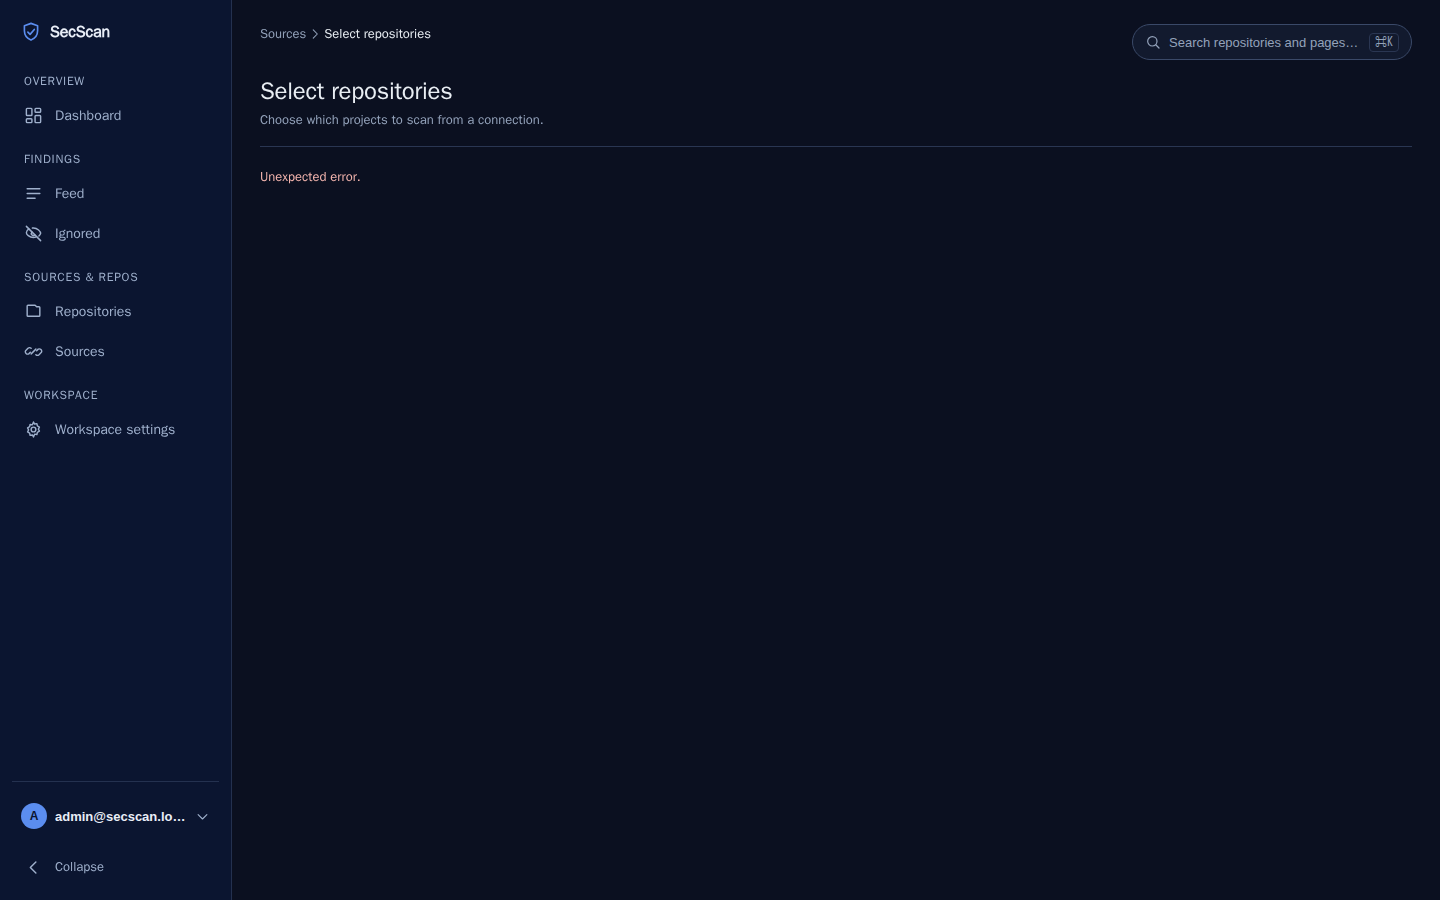
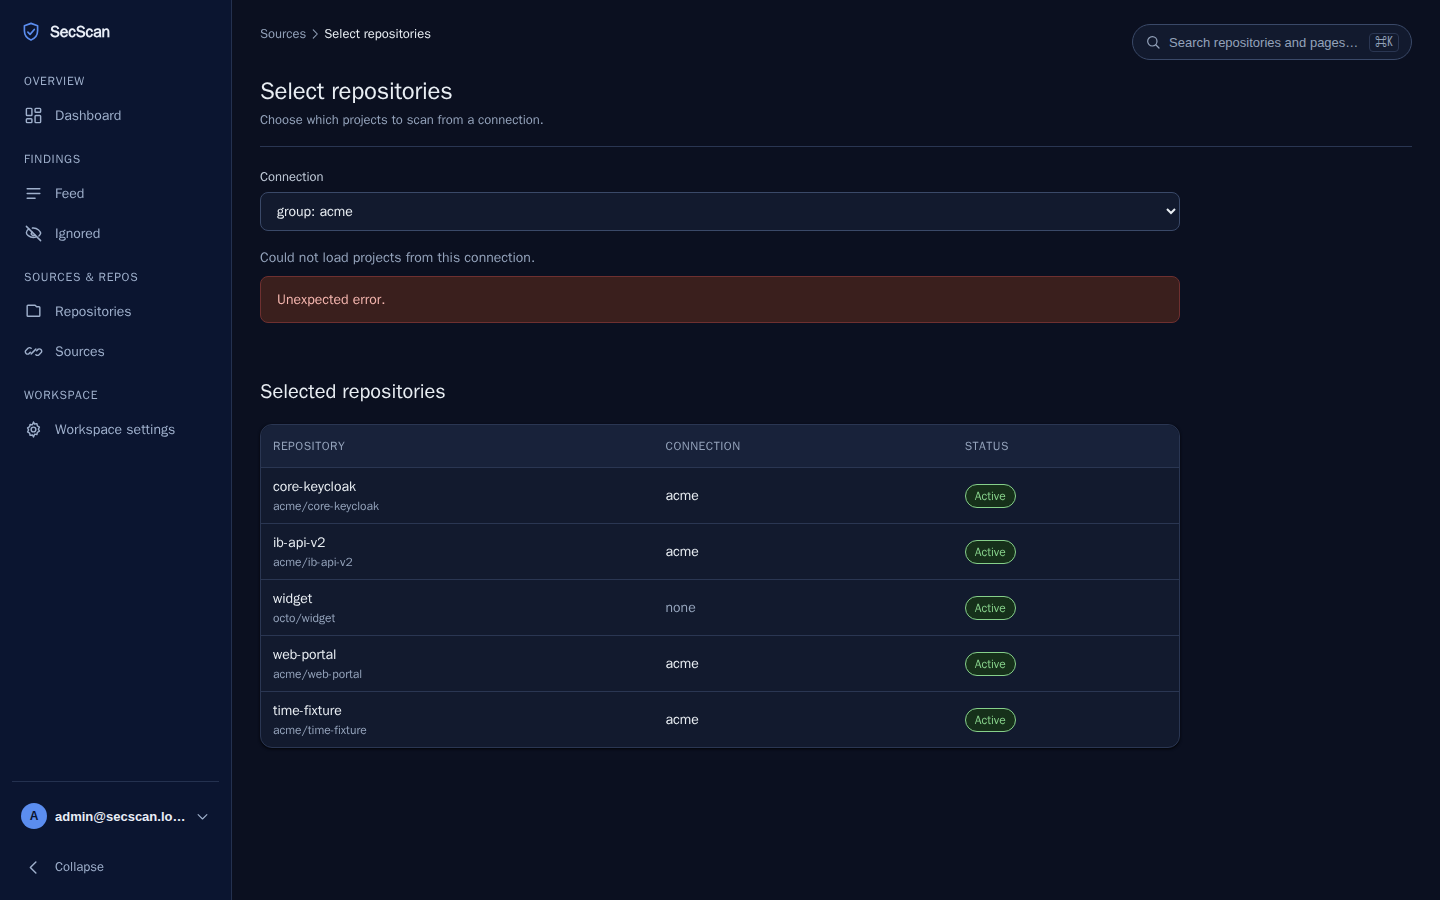
docs(ui): M8.11 R7 report rewrite + regenerated select screenshots (SF-6)
Add the S11 section and the review fix round (item -> commit), drop stale
claims, list SPEC/CLAUDE.md merge edits and the deferred items, add the
D-099 no-prefers-color-scheme addendum, regenerate select-* screenshots.

Changed region(s): [[0.1562, 0.4044, 0.8438, 0.84], [0.1562, 0.28, 0.8438, 0.3733], [0.1875, 0.1867, 0.25, 0.2489]]

diff --git a/docs/reports/M8.11.md b/docs/reports/M8.11.md
@@ -1,85 +1,125 @@
 # M8.11 — UI redesign + navigation
 
-Branch `feature/m8.11-ui-redesign` (worktree `~/Projects/secscan-ui`), `ui/` only. Ran in parallel with
-M8.10; **M8.11 merges first.** No `app/`/`core/`/migration/compose/nginx changes, no new runtime deps.
-Full slice-by-slice log and commit hashes: `docs/reports/M8.11-worklog.md`.
+Branch `feature/m8.11-ui-redesign` (worktree `~/Projects/secscan-ui`), `ui/` + `docs/` only. Ran in parallel
+with M8.10; **M8.11 merges first.** No `app/`/`core/`/migration/compose/nginx/e2e-overlay changes, no new
+runtime deps, no API contract change. Slice-by-slice log and commit hashes: `docs/reports/M8.11-worklog.md`.
 
-## What shipped (scope items 1–8)
+Three passes: **S0–S10** (scope items 1–8), **S11** (visual-review redesign fixes), **R1–R7** (the
+`/review-pr M8.11` fix round).
 
-1. **Design tokens** — one `:root` system in `ui/src/styles/tokens.css`: added the brand/shell group
-   (`--brand-navy #0B1530`, `--shell-*`), motion (`--transition`, `--transition-fast`) and layering
-   (`--z-drawer/-palette/-toast`) tokens; added `--sp-5`; removed the last one-off hex fallbacks and fixed two
-   undeclared refs. `contrast.test.ts` extended with the shell pairs.
-2. **Theme (D-099)** — LIGHT by default, DARK via the user-menu toggle, **no "system"**; remembered across
-   reloads via `ui/src/lib/themeStore.ts` (localStorage, single `secscan-theme` key, `try/catch` → light). The
-   security guard now permits `localStorage` only in that one file and asserts its key/values/members, with a
-   self-test. WCAG AA in both themes (`contrast.test.ts` + e2e).
-3. **App shell** — deep-navy sidebar (brand chrome, constant across themes) grouped into Overview / Findings /
-   Sources & repos / Workspace with collapsible sections and a clear active state; a user menu (theme toggle +
-   Sign out); breadcrumbs on detail routes (`/repositories/:id`, `/feed/:groupId`, `/select`); a ⌘K/Ctrl+K
-   quick-jump palette (pages + repositories via the endpoint's server-side search). Original inline-SVG
-   `BrandMark`.
-4. **Interactivity** — whole-row **real link** (stretched `::after`; Enter is e2e-tested; middle-click / Ctrl-click are native `<a href>` behaviour of that real link — not separately tested;
-   no onClick-only `<tr>`) on Repositories and Feed, with row buttons/menus kept clickable above the overlay;
-   sticky table headers; hover/focus-visible; skeleton loaders everywhere (`TableSkeleton` on lists,
-   `SkeletonLines` in the panel/wizards/drawer); all transitions ≤200 ms, disabled under
-   `prefers-reduced-motion`.
+## What shipped (scope items 1–8, S0–S10)
+
+1. **Design tokens** — one `:root` system in `ui/src/styles/tokens.css`: brand/shell group (`--brand-navy
+   #0B1530`, `--shell-*`), motion (`--transition`, `--transition-fast`), layering (`--z-drawer/-palette/-toast`),
+   `--sp-5`, `--appbar-h` (R6); the last one-off hex fallbacks removed and two undeclared refs fixed.
+2. **Theme (D-099)** — LIGHT by default, DARK via the user-menu toggle, **no "system"**, and no
+   `@media (prefers-color-scheme)` token block (R6/N-4): dark exists only under `[data-theme="dark"]`, so first
+   paint is light and the OS setting is never followed. Remembered across reloads via `ui/src/lib/themeStore.ts`
+   (localStorage, single `secscan-theme` key, values `light|dark`, every access `try/catch` → light). The guard
+   permits `localStorage` only in that file and asserts its key/values/members, with a self-test.
+3. **App shell** — deep-navy sidebar (constant across themes) with section labels Overview / Findings /
+   Sources & repos / Workspace (always expanded — S11.5 replaced per-group chevrons with one collapse-to-icons
+   control in the footer); clear active state; user menu (theme toggle + Sign out); a top bar on every page
+   (breadcrumbs on `/repositories/:id`, `/feed/:groupId`, `/select`; the page name elsewhere) with a search
+   field that opens the ⌘K/Ctrl+K quick-jump palette (pages + repositories via the server-side search, one page
+   of 6, debounced 150 ms). Original inline-SVG `BrandMark`.
+4. **Interactivity** — whole-row **real link** on Repositories and Feed (stretched `::after`; Enter is
+   e2e-tested; middle-click / Ctrl-click are the native behaviour of that real `<a href>` — **not separately
+   tested**); no onClick-only `<tr>` remains — the repository Issues row opens its panel through a real
+   `<button>` (S11.9, Enter + Space e2e). Row buttons/menus and the repository path (selectable, R6/N-8) sit
+   above the overlay. Sticky table headers (below the app-bar at 721–1024 px, R6/N-3); hover/focus-visible;
+   skeleton loaders (`TableSkeleton` on lists, `SkeletonLines` in panels/wizards/drawer); transitions ≤200 ms,
+   disabled under `prefers-reduced-motion`.
 5. **Friendliness** — next-action CTAs on every list empty state (Dashboard, Feed, Repositories, Ignored,
-   Sources, repo Issues/Scans tabs); a Dashboard first-run checklist (add source → add repository → run first
-   scan) derived from existing list counts that auto-hides when all three are done (no dismiss button, per
-   approved change #6).
-6. **Restyle** — login card (with reserved room for a future "Create account" link; no route — M8.10 owns
-   sign-up), plus the shared-class polish (page-header separation, card hover) that refreshes every page.
-   Behaviour unchanged (existing per-page e2e specs still green).
-7. **Responsive** — 1440 / 1280 / 390; the sidebar collapses to an off-canvas drawer below ~1024; wide tables
-   scroll inside their card (no horizontal page scroll at 390); the checklist/palette adapt at phone width.
+   Sources, repo Issues/Scans tabs, and `/select` — "Add a source first", R2); a Dashboard first-run checklist
+   (add source → add repository → run first scan) from existing list counts, auto-hidden when all three are done
+   (no dismiss button, approved change #6), refreshed immediately by source/select/scan mutations (R6/N-1).
+6. **Restyle** — login card (reserved room for a future "Create account" link; no route — M8.10 owns sign-up);
+   shared page-header separation and card polish.
+7. **Responsive** — 1440 / 1280 / 900 / 390; the sidebar becomes an off-canvas drawer below ~1024 px; wide tables
+   scroll inside their card (no horizontal page scroll at 390); checklist/palette/top-bar search adapt at phone
+   width.
 8. **Guard + e2e** — the guard still fails on any `Authorization: Basic` construction; e2e selectors updated for
-   the new shell/theme without weakening assertions.
+   the new shell/theme without weakening assertions (the one coverage loss — feed last page — restored in R5).
+
+## S11 — redesign fixes (visual-review follow-up)
+
+| Slice | Commit | What |
+|---|---|---|
+| S11.1 | `217208d` | sidebar fills the full page height (grid cell + sticky inner) |
+| S11.2 | `13dee70` | one `PageLayout` template on every routed page (top bar → header → KPI strip → toolbar → content); pager in the card footer |
+| S11.3 | `a7258fc` | **default page size 20** (sizes 20/50/100; unknown `?size=` → 20); compact rows; compact toolbar pager ("1–20 of 63 · Prev/Next") |
+| S11.6 | `e9c8afa` | severity palette — low is slate-blue (never green), medium a distinct amber |
+| S11.7 | `591c19f` | navy-tinted dark palette |
+| S11.5 | `a535eab` | sidebar section labels (no chevrons) + collapse-to-icons |
+| S11.8 | `f47d6eb` | Dashboard: 4 KPI cards, coloured type bars, unfinished scans show "—" (not "just now"), repo links |
+| S11.4 | `a0874f1` | repository page KPI strip + typed Type column |
+| S11.9 | `20afd1c` | repo Issues row opens the panel via a real button |
+| S11.10 | `0e5381e`, `3a3092e`, `a5cb805` | self-review fixes (KPI centring, phone top-bar search, 2-col KPI grid) + 40 screenshots |
+
+Page size 20 changes only the `size` query parameter the UI sends (still one page per request, server-side);
+e2e oracles that compare against `GET …?size=` were moved to `size=20` so they still compare like with like.
+
+## Review fix round (R1–R7)
+
+| Group | Commit | Items | What |
+|---|---|---|---|
+| R1 | `88631fb` | B-1 | `themeStore.test.ts` added (missing/unknown → light, dark/light round-trip, `getItem` throws → light, `setItem` throws → no throw). It was cited by D-099 and this report but had never been written. |
+| R2 | `1c69b0e` | SF-1 | `/select`: GitLab connections only; none → "Add a source first" + link to `/connect`; list/connection/select errors inline and scoped (never a page replacement). `SelectRepositories.test.tsx`. |
+| R3 | `79187c1` | SF-2, SF-3 | Repositories `?search=` and `?lastScanFailed=true` are URL-addressable, so the Dashboard "Need attention" card and the palette "View all repositories" land filtered. `repositories-url-filters.test.tsx` (fails on the pre-fix page). |
+| R4 | `16750c9` | SF-4, SF-5 | Palette restores focus to its opener on every close (main landmark if a navigation removed it); ARIA combobox (`aria-expanded`/`-controls`/`-activedescendant`) over a listbox of id'd options. |
+| R5 | `b90ceaf` | SF-7 | Feed e2e walks to `41–60` and the partial last page `61–64 of 64` (4 rows, Next disabled). |
+| R6 | `c5a664b` | N-1…N-8 | Checklist invalidation (`sources` mutation kind), 150 ms palette debounce, sticky header under the tablet app-bar, no prefers-color-scheme block, `--type-*` ≥3:1 graphic pairs, guard comment, N-7 wording, selectable repo path. |
+| R7 | *(this)* | SF-6, SF-1 screenshots | This report; `select-*` screenshots regenerated from the final e2e run. |
 
 ## Decisions
 
-- **D-099** (in `docs/DECISIONS.md`): theme persistence via a narrow localStorage allowlist (amends D-067e),
-  which also closes the M10 register item "Theme (light/dark) preference persistence".
+- **D-099** (`docs/DECISIONS.md`): theme persistence via a narrow localStorage allowlist (amends D-067e); closes
+  the M10 register item "Theme (light/dark) preference persistence". R6 adds one line: no prefers-color-scheme
+  block — dark only via `[data-theme="dark"]`.
+- No other new decision: the `sources` invalidation kind, `--appbar-h` and the debounce are implementation
+  details inside existing decisions.
 
-## Serial-vitest change (recorded here per request)
+## Serial vitest
 
-`ui/vite.config.ts` now sets `test.fileParallelism: false`. Under vitest's default file-parallelism the M8.8
-`BranchPicker.test.tsx` (`findByRole`, real timers) timed out when many jsdom environments ran concurrently —
-the M8.11 test additions tipped the load over. The suite passed in isolation and single-threaded (149/149).
-Serial execution is deterministic (~15 s), touches no test and weakens no assertion. Approved by Sajal mid-run.
+`ui/vite.config.ts` sets `test.fileParallelism: false`. Under vitest's default file-parallelism the M8.8
+`BranchPicker.test.tsx` (`findByRole`, real timers) timed out when many jsdom environments ran concurrently.
+Serial execution touches no test and weakens no assertion (approved by Sajal mid-run). Observed once in R2: one
+unidentified test failed in a single serial full-suite run and passed in the next 11 full runs, so a residual
+load/timing flake remains in the suite. The R1/R2 files were stress-run 15× in isolation, all green.
 
-## Gates (final, at S10 tree)
+## Gates (final)
 
-- `npm run build` ✓ · `npm run typecheck` ✓ · `npm test` → **149 passed (21 files)** · `npm run guard` ✓ (92 files)
-- **e2e ×2 both green: 118 passed / 0 failed each** (isolated `secscan-e2e` compose + Playwright-in-Docker).
+- `npm run build` ✓ · `npm run typecheck` ✓ · `npm test` → **211 passed (26 files)** · `npm run guard` ✓ (98 files) — at `c5a664b` (the `ui/` tree is unchanged by the docs-only R7 commit)
+- `./gradlew build` ✓ (UI-only change; run during the review at `a5cb805`)
+- e2e pre-run at `c5a664b` (source of the `select-*` screenshots): **122 passed / 0 failed**.
+- Final e2e ×2 on the R7 commit: recorded in the follow-up docs commit (see the worklog).
 
 ## Done-when → proof
 
 | Item | Proof |
 |---|---|
-| 1 Tokens | `contrast.test.ts` (incl. shell pairs); screenshots |
-| 2 Theme | `themeStore.test.ts`, guard self-test (`guard.test.ts`), `contrast.test.ts` both themes, `s10e` theme + AA e2e, light/dark screenshots |
-| 3 Shell | `Layout.test.tsx`, `CommandPalette.test.tsx`, `Breadcrumbs.test.tsx`; `onboarding`/`repositories` e2e; screenshots |
-| 4 Interactivity | `repositories.spec` whole-row keyboard + row-button check; `s10.spec` S10d focus; sticky header; reduced-motion (base.css) |
-| 5 Friendliness | `firstRunChecklist.test.ts`, `ui.test.tsx` (EmptyState); screenshots |
-| 6 Restyle | existing per-page e2e green; screenshots |
-| 7 Responsive | `layout-1280.spec`; 1440 + 390 screenshots |
-| 8 Guard/e2e | `npm run guard` green (D-099 allowlist, Basic-header ban intact); e2e ×2 green |
+| 1 Tokens | `contrast.test.ts` (text + shell + `--type-*` graphic pairs, both themes); screenshots |
+| 2 Theme | `themeStore.test.ts`; guard self-test (`guard.test.ts`); `contrast.test.ts` (both themes, no prefers-color-scheme rule); `s10e` theme toggle + AA e2e; `test-base` storage assertion (only `secscan-theme`); light/dark screenshots |
+| 3 Shell | `Layout.test.tsx`, `CommandPalette.test.tsx` (focus restore, combobox, debounce), `Breadcrumbs.test.tsx`, `pages-layout.test.tsx`; `onboarding`/`repositories` e2e |
+| 4 Interactivity | `repositories.spec` whole-row keyboard + row-button + selectable path; `repo-page.spec` Issues row Enter/Space; `s10.spec` S10d focus; `layout-tablet.spec` sticky header; reduced-motion (`base.css`) |
+| 5 Friendliness | `firstRunChecklist.test.ts`, `FirstRunChecklist.test.tsx`, `SelectRepositories.test.tsx`, `ui.test.tsx` (EmptyState) |
+| 6 Restyle | per-page e2e green; screenshots |
+| 7 Responsive | `layout-1280.spec`, `layout-tablet.spec` (900); 1440 + 390 screenshots |
+| 8 Guard/e2e | `npm run guard` (D-099 allowlist, Basic-header ban intact); `feed.spec` last-page pagination; e2e ×2 |
+
+Not tested: middle-click / Ctrl-click on row links (native anchor behaviour).
 
 ## Screenshots
 
 Every main page at 1440 + 390, light + dark, in `docs/reports/m8.11-screens/` (40 files):
-
-- Login: `login-{light,dark}-{1440,390}.png`
-- Dashboard: `dashboard-{light,dark}-{1440,390}.png`
-- Feed: `feed-{light,dark}-{1440,390}.png`
-- Feed side panel: `feed-panel-{light,dark}-{1440,390}.png`
-- Ignored: `ignored-{light,dark}-{1440,390}.png`
-- Repositories: `repositories-{light,dark}-{1440,390}.png`
-- Repository detail: `repository-{light,dark}-{1440,390}.png`
-- Sources: `sources-{light,dark}-{1440,390}.png`
-- Select repositories: `select-{light,dark}-{1440,390}.png`
-- Workspace settings: `settings-{light,dark}-{1440,390}.png`
+login, dashboard, feed, feed-panel, ignored, repositories, repository, sources, select, settings —
+`<page>-{light,dark}-{1440,390}.png`. The 36 non-`select` files are from S11.10 (`a5cb805`); the R6 visual
+changes do not appear at 1440/390 (N-3 only affects 721–1024 px, N-4 is invisible because the captures force
+the theme, and N-8 only changes stacking). The 4 `select-*` files were regenerated in R7 from the final e2e run:
+they show the scoped project-list error under the connection picker (the seed's GitLab connection has fake
+ciphertext, see deferred), with the Selected-repositories section intact — no longer a page replaced by
+"Unexpected error.".
 
 ## API gaps
 
@@ -88,24 +128,33 @@ from `getRepository`/`getGroup`; palette repos from `listRepositories?search=`.
 
 ## Deviations / notes
 
-- **Gate-flake fix** (serial vitest, above) — approved mid-run.
-- **Skeleton audit** split: main lists already used `TableSkeleton` (M8.8); remaining text loaders converted to
-  `SkeletonLines` in S7b.
-- **`repo-issue-row`** (repository page Issues tab) is still a pre-existing onClick `<tr>` from M8.6 (opens the
-  in-page sub-issue panel, not a navigation). The approved change #4 real-link refactor was applied to the two
-  navigating row lists it named (Repositories, Feed); aligning `repo-issue-row` is a low-risk follow-up (not in
-  the M8.11 ask).
-- **Extra test** beyond plan: `Breadcrumbs.test.tsx` (item 4 coverage).
+- **Serial vitest** (above), approved mid-run.
+- **Skeleton audit** split: main lists already used `TableSkeleton` (M8.8); the remaining text loaders were
+  converted to `SkeletonLines` in S7b.
+- **Extra tests** beyond plan: `Breadcrumbs.test.tsx`, `pages-layout.test.tsx`.
+- **Review fix round** (R1–R7) applied after `/review-pr M8.11`; every B/SF/N item is mapped to its commit in
+  the table above and in the worklog.
 
-## Recommended doc changes (not applied — CLAUDE.md/SPEC.md were off-limits this milestone)
+## Deferred
 
-The human should, at merge time, consider:
-- **SPEC.md** — add an "M8.11 UI redesign + navigation" section mirroring the M8.x pattern (shell grouping,
-  D-099 theme, ⌘K palette, first-run checklist, whole-row links).
-- **CLAUDE.md** — note under the UI gate that `npm test` runs serially (`fileParallelism:false`, D-099 flake
-  mitigation); no command changed.
+- **`/projects` decrypt failure → 409 (M8.10)** — `GET /api/v1/gitlab/connections/{id}/projects` answers a
+  generic 500 `INTERNAL "Unexpected error."` when the stored token cannot be decrypted (e.g. the e2e seed's fake
+  ciphertext, or a rotated encryption key). It should be a typed 409 with an actionable message ("re-enter the
+  token for this source"). Backend change, out of this UI-only milestone; the UI already scopes the error (R2).
+- **UI reformation round 2 (post-release)** — a second UI design pass after release; scope to be defined by the
+  human (not specified in this milestone).
+- **Residual vitest timing flake** (one unidentified failure in ~12 serial runs; see "Serial vitest").
+
+## SPEC / CLAUDE.md edits for the merge (not applied — both were off-limits this milestone)
+
+- **SPEC.md** — add an "M8.11 UI redesign + navigation" section mirroring the M8.x pattern: shell grouping +
+  collapse-to-icons, D-099 theme (light default, explicit dark only, single storage key), one `PageLayout`
+  template, ⌘K palette (combobox, server search one page of 6, debounced), breadcrumbs, first-run checklist,
+  whole-row real links, default page size 20 (20/50/100), URL-addressable Repositories filters (`provider`,
+  `search`, `lastScanFailed`), `/select` GitLab-only with "Add a source first".
+- **CLAUDE.md** — under the UI gate, note that `npm test` runs serially (`fileParallelism:false`, the
+  BranchPicker timing-flake mitigation); no command changed.
 
 ## Remaining
 
-`/review-pr M8.11` (fresh session) then human merge — M8.11 merges before M8.10. The full-stack real-data
-walkthrough is unaffected (UI-only change).
+Human merge into `develop` (M8.11 before M8.10).

diff --git a/docs/reports/M8.11-worklog.md b/docs/reports/M8.11-worklog.md
@@ -186,3 +186,4 @@ Running gate note: `npm ci` first in this worktree (node_modules absent). vitest
 | R4 | *(this)* | SF-4, SF-5 | Palette: remembers the opener and restores focus on every close (Esc, Enter/click, backdrop, Ctrl+K toggle); when a navigation unmounted the opener, focus goes to `<main id="main" tabIndex={-1}>` (restore waits for the router to commit the target location). Input is `role="combobox"` with `aria-expanded`, `aria-controls` → listbox id, `aria-autocomplete="list"`, `aria-activedescendant` → active option id; options are `<li role="option" id=…>` direct children of the listbox (no nested buttons); "No matches" moved outside the listbox (`role="status"`). `.content:focus{outline:none}` for the programmatic main focus. `CommandPalette.test.tsx` +7 (12 total). |
 | R5 | *(this)* | SF-7 | `feed.spec.ts` pagination restored to the last page: `41–60` (20 rows), then the partial last page `61–64 of 64` with 4 rows and Next disabled — proves the `to = min(...)` clamp again at page size 20. Verified in the final e2e ×2. |
 | R6 | *(this)* | N-1…N-8 | **N-1** new `sources` mutation kind (connections, repositories, repository, dashboard, feed, feed-summary, group, sub-issue-events, scans-recent) called after add/remove source and both repository-select flows; the checklist now reads `qk.connections`, `qk.repositories`, `qk.scansCount` (under `scans-recent`) — `FirstRunChecklist.test.tsx` (2) + `queryClient.test.ts` map. **N-2** palette repo search debounced 150 ms (`SEARCH_DEBOUNCE_MS`), page matches stay instant — fake-timer test. **N-3** `--appbar-h: 56px`, app-bar height fixed to it, sticky `th` `top: var(--appbar-h)` at 721–1024px — `layout-tablet.spec.ts` (900px). **N-4** `@media (prefers-color-scheme: dark)` block removed (it was identical to the explicit block); dark only via `[data-theme="dark"]` (D-099) — contrast.test asserts no such rule. **N-5** `--type-*` ≥3:1 on `--surface`/`--surface-2`, both themes (20 cases). **N-6** guard comment on the literal-only key check + runtime-identifier limitation. **N-7** report: middle/Ctrl-click = native anchor behaviour, not tested. **N-8** `.repo-path` (fit-content) above the row overlay, selectable — `repositories.spec` N-8 e2e. |
+| R7 | *(this)* | SF-6, SF-1 screenshots | Report rewritten: S11 section, R1–R7 table, stale claims removed (collapsible sections, 149/21, repo-issue-row onClick `<tr>`, "D-099 flake mitigation"), SPEC/CLAUDE.md merge edits, deferred items ("UI reformation round 2 (post-release)", "/projects decrypt failure → 409 (M8.10)"). D-099 addendum (no prefers-color-scheme). `select-{light,dark}-{1440,390}.png` regenerated from the e2e run at `c5a664b` (122 passed / 0 failed) and re-checked by eye: scoped error under the picker, Selected section intact, no page replacement. |

diff --git a/docs/DECISIONS.md b/docs/DECISIONS.md
@@ -37,6 +37,9 @@ auditable; D-067(a–d) and D-092 are unchanged; the CSP is unchanged (no storag
 M10 deferred-register item "Theme (light/dark) preference persistence → M10 (user settings)"** — theme
 persistence ships now, scoped to this carve-out, and does not wait for M10 user settings. Proven by
 `themeStore.test.ts` and the guard self-test.
+Addendum (M8.11 review N-4): dark exists ONLY as the explicit `[data-theme="dark"]` token set — `tokens.css`
+has no `@media (prefers-color-scheme)` block, so the OS setting is never followed and first paint is light
+(asserted in `contrast.test.ts`).
 
 ## D-092 M8.8 browser session (amends D-067(a)) (2026-10-28, accepted)
 Context: D-067(a) kept Basic credentials in JS memory and forced a full re-sign-in on every browser refresh —
